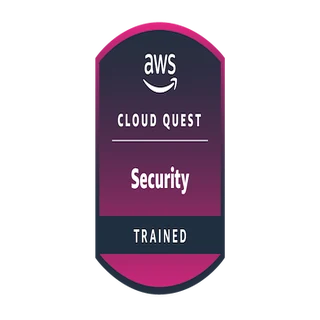
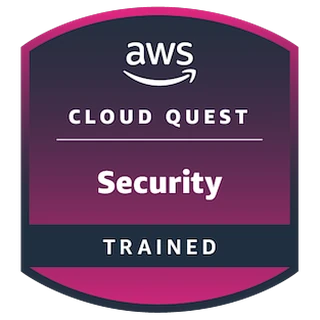
Second polish pass: badges, research, achievements, skills, dates
- AWS Cloud Quest badge cropped to its artwork so it fills the ring
  like the other badges
- Research: Copy BibTeX button on each published paper
- Achievements: gold accent on first-place entries, silver on second
- Skills sphere trimmed from 48 to 37 tags so words overlap less
- Certificates: completion month and year on every card that prints one
- Projects: single-item Web and Tools filters folded into the main
  categories
- Contact form: note that the button opens the visitor's mail app
- Scripts load with defer and the portrait is preloaded, so the page
  paints sooner; 404 page restyled to match the site

diff --git a/js/app.js b/js/app.js
@@ -251,20 +251,17 @@ if(aboutCard){
   const skills = [
     {name:'Kali Linux',type:'security'},{name:'Burp Suite',type:'security'},{name:'Metasploit',type:'security'},
     {name:'Wireshark',type:'security'},{name:'Nmap',type:'security'},{name:'SIEM / Log Analysis',type:'security'},
-    {name:'Pen Testing',type:'security'},{name:'OWASP Top 10',type:'security'},{name:'OWASP LLM Top 10',type:'security'},
-    {name:'MITRE ATT&CK',type:'security'},{name:'Detection Engineering',type:'security'},{name:'Incident Response',type:'security'},
-    {name:'Threat Hunting',type:'security'},{name:'Entra ID / OAuth',type:'security'},{name:'Digital Forensics',type:'security'},
-    {name:'Adversarial ML',type:'security'},{name:'CTF / Exploitation',type:'security'},{name:'DNS / SPF / DKIM',type:'security'},
+    {name:'Pen Testing',type:'security'},{name:'OWASP Top 10',type:'security'},{name:'MITRE ATT&CK',type:'security'},
+    {name:'Detection Engineering',type:'security'},{name:'Incident Response',type:'security'},{name:'Threat Hunting',type:'security'},
+    {name:'Entra ID / OAuth',type:'security'},{name:'Digital Forensics',type:'security'},{name:'Adversarial ML',type:'security'},
     {name:'Python',type:'programming'},{name:'Rust',type:'programming'},{name:'C / C++',type:'programming'},
-    {name:'Java',type:'programming'},{name:'TypeScript',type:'programming'},{name:'JavaScript',type:'programming'},
-    {name:'PowerShell / KQL',type:'programming'},{name:'SQL',type:'programming'},{name:'Bash',type:'programming'},
-    {name:'PyTorch',type:'programming'},{name:'XGBoost',type:'programming'},{name:'Scikit-learn',type:'programming'},
-    {name:'SHAP / LIME',type:'programming'},{name:'ONNX Runtime',type:'programming'},{name:'YOLOv8',type:'programming'},
-    {name:'FastAPI',type:'programming'},{name:'React',type:'programming'},{name:'Docker',type:'programming'},
-    {name:'GitHub Actions',type:'programming'},{name:'AWS',type:'programming'},{name:'Alibaba Cloud',type:'programming'},
-    {name:'Linux',type:'programming'},{name:'Git',type:'programming'},{name:'Playwright',type:'programming'},
+    {name:'Java',type:'programming'},{name:'TypeScript',type:'programming'},{name:'PowerShell / KQL',type:'programming'},
+    {name:'SQL',type:'programming'},{name:'Bash',type:'programming'},{name:'PyTorch',type:'programming'},
+    {name:'XGBoost',type:'programming'},{name:'SHAP / LIME',type:'programming'},{name:'ONNX Runtime',type:'programming'},
+    {name:'YOLOv8',type:'programming'},{name:'FastAPI',type:'programming'},{name:'React',type:'programming'},
+    {name:'Docker',type:'programming'},{name:'GitHub Actions',type:'programming'},{name:'AWS',type:'programming'},
     {name:'Research Writing',type:'soft'},{name:'Problem-Solving',type:'soft'},{name:'Team Work',type:'soft'},
-    {name:'Communication',type:'soft'},{name:'Adaptability',type:'soft'},{name:'Project Management',type:'soft'},
+    {name:'Communication',type:'soft'},
   ];
 
   const N = skills.length;
@@ -397,7 +394,7 @@ const PROJECTS = [
     code:'https://github.com/MohammadThabetHassan/TokenAbuse-Azure', codeLabel:'Write-up'
   },
   {
-    title:'Facts Only', cats:['AI/ML','Web'], lang:'JavaScript', year:'2026',
+    title:'Facts Only', cats:['AI/ML','Security'], lang:'JavaScript', year:'2026',
     image:'img/projects/facts-only.webp', alt:'Facts Only report flagging one source in an AI answer as likely planted',
     desc:'Browser extension and web app that flags paid or planted sources in AI chatbot answers. Shows evidence, never a true-or-false verdict. English and Arabic, zero dependencies, 174 offline checks.',
     facts:['0 false positives / 209 publishers','English + Arabic (RTL)','Zero dependencies'],
@@ -413,7 +410,7 @@ const PROJECTS = [
     code:'https://github.com/MohammadThabetHassan/bcs407-campus-safety', demo:'https://campussafety.eu.cc'
   },
   {
-    title:'Odoo AI Helpdesk Triage', cats:['AI/ML','Tools'], lang:'Python', year:'2026',
+    title:'Odoo AI Helpdesk Triage', cats:['AI/ML'], lang:'Python', year:'2026',
     image:'img/projects/odoo-helpdesk.webp', alt:'GitHub Actions history for the Odoo AI helpdesk triage add-on, every run passing',
     desc:'Odoo 19 add-on that turns Claude into a guarded first-line helpdesk agent: triage, routing and tool-use resolution behind cost caps, rate limits, circuit breakers and a human final say. Per-tool audit trail, safety gates and 74 tests.',
     facts:['Cost caps + circuit breakers','Per-tool audit trail','74 tests'],
@@ -588,6 +585,60 @@ if(!prefersReducedMotion && typeof gsap!=='undefined'){
       scrollTrigger:{ trigger:el, start:'top 88%' }
     });
   });
+}
+
+/* ── Copy BibTeX ── */
+const BIBTEX = {
+  1: `@inproceedings{thabet2025smartinject,
+  author    = {Thabet, M. and Satrya, G. B. and Kermani, A.},
+  title     = {SmartInject: Automated SQL Injection Testing Using Deep Q-Learning and LSTM-Based Payload Generation},
+  booktitle = {Proc. 2025 2nd Int. Conf. on Artificial Intelligence, Metaverse, and Cybersecurity (ICAMAC)},
+  address   = {Dubai, UAE},
+  year      = {2025},
+  month     = oct,
+  pages     = {1--6},
+  doi       = {10.1109/ICAMAC67779.2025.11398683}
+}`,
+  2: `@inproceedings{thabethassan2026lightweight,
+  author    = {Thabet Hassan, M. and Sadek, F. and Sami, A. and Kermani Kolankeh, A.},
+  title     = {Lightweight Voice Deepfake Detection for Smart Mobility Using Multi-Feature Ensemble Learning},
+  booktitle = {Proc. 2026 IEEE Int. Conf. on Smart Mobility (SM)},
+  address   = {Al Alamein, Egypt},
+  year      = {2026},
+  month     = may,
+  pages     = {1--2},
+  doi       = {10.1109/SM69703.2026.11614145}
+}`,
+  3: `@inproceedings{thabethassan2026ota,
+  author    = {Thabet Hassan, M. and Alraas, O. and AbuSerrieh, L. A.},
+  title     = {OTA Update-Channel Compromise Risk in Smart Mobility: A Testbed Comparing Governance and Cryptographic Controls},
+  booktitle = {Proc. 2026 IEEE Int. Conf. on Smart Mobility (SM)},
+  address   = {Al Alamein, Egypt},
+  year      = {2026},
+  month     = may,
+  pages     = {1--2},
+  doi       = {10.1109/SM69703.2026.11614128}
+}`
+};
+document.querySelectorAll('.pub-copy').forEach(btn=>{
+  const original = btn.textContent;
+  btn.addEventListener('click',()=>{
+    const text = BIBTEX[btn.dataset.bib];
+    if(!text) return;
+    const done = ()=>{
+      btn.textContent = 'Copied ✓'; btn.classList.add('is-done');
+      setTimeout(()=>{ btn.textContent = original; btn.classList.remove('is-done'); }, 1800);
+    };
+    if(navigator.clipboard && navigator.clipboard.writeText){
+      navigator.clipboard.writeText(text).then(done, ()=>fallbackCopy(text, done));
+    } else { fallbackCopy(text, done); }
+  });
+});
+function fallbackCopy(text, done){
+  const ta=document.createElement('textarea'); ta.value=text; ta.setAttribute('readonly','');
+  ta.style.position='fixed'; ta.style.opacity='0'; document.body.appendChild(ta); ta.select();
+  try{ document.execCommand('copy'); done(); }catch(err){ /* leave the text selectable */ }
+  document.body.removeChild(ta);
 }
 
 /* ── Contact Form ── */

diff --git a/index.html b/index.html
@@ -58,9 +58,10 @@
 <link rel="preconnect" href="https://fonts.gstatic.com" crossorigin>
 <link href="https://fonts.googleapis.com/css2?family=JetBrains+Mono:wght@400;500;700&family=Space+Grotesk:wght@300;400;500;600;700&display=swap" rel="stylesheet">
 
-<script src="https://cdnjs.cloudflare.com/ajax/libs/three.js/r128/three.min.js"></script>
-<script src="https://cdnjs.cloudflare.com/ajax/libs/gsap/3.12.2/gsap.min.js"></script>
-<script src="https://cdnjs.cloudflare.com/ajax/libs/gsap/3.12.2/ScrollTrigger.min.js"></script>
+<link rel="preload" as="image" href="img/portrait.webp" type="image/webp">
+<script defer src="https://cdnjs.cloudflare.com/ajax/libs/three.js/r128/three.min.js"></script>
+<script defer src="https://cdnjs.cloudflare.com/ajax/libs/gsap/3.12.2/gsap.min.js"></script>
+<script defer src="https://cdnjs.cloudflare.com/ajax/libs/gsap/3.12.2/ScrollTrigger.min.js"></script>
 
 <link rel="stylesheet" href="css/style.css">
 </head>
@@ -276,7 +277,7 @@
         <div class="pub-authors"><b>M. Thabet</b>, G. B. Satrya, A. Kermani</div>
         <div class="pub-venue">Proc. 2025 2nd Int. Conf. on Artificial Intelligence, Metaverse, and Cybersecurity (ICAMAC), Dubai, Oct. 2025, pp. 1–6 · IEEE Xplore</div>
         <p class="pub-result">A hybrid DQN + LSTM agent, trained in an OpenAI Gym environment over DVWA, reached an 80% vulnerability-discovery rate at DVWA "High", where static fuzzing and a DQN-only baseline found nothing.</p>
-        <div class="pub-links"><a href="https://doi.org/10.1109/ICAMAC67779.2025.11398683" target="_blank" rel="noopener">DOI 10.1109/ICAMAC67779.2025.11398683 ↗</a></div>
+        <div class="pub-links"><a href="https://doi.org/10.1109/ICAMAC67779.2025.11398683" target="_blank" rel="noopener">DOI 10.1109/ICAMAC67779.2025.11398683 ↗</a><button type="button" class="pub-copy" data-bib="1">Copy BibTeX</button></div>
       </div>
     </article>
     <article class="pub-card reveal">
@@ -286,7 +287,7 @@
         <div class="pub-authors"><b>M. Thabet Hassan</b>, F. Sadek, A. Sami, A. Kermani Kolankeh</div>
         <div class="pub-venue">Proc. 2026 IEEE Int. Conf. on Smart Mobility (SM), Al Alamein, Egypt, May 2026, pp. 1–2 · IEEE Xplore</div>
         <p class="pub-result">An edge-deployable XGBoost ensemble: F1 0.95, 95.17% accuracy, under 2 MB, 36.8 ms feature extraction, with no GPU or cloud dependency. Extended into the VoiceGuard platform.</p>
-        <div class="pub-links"><a href="https://doi.org/10.1109/SM69703.2026.11614145" target="_blank" rel="noopener">DOI 10.1109/SM69703.2026.11614145 ↗</a><a href="https://github.com/MohammadThabetHassan/VoiceGuard" target="_blank" rel="noopener">Code ↗</a></div>
+        <div class="pub-links"><a href="https://doi.org/10.1109/SM69703.2026.11614145" target="_blank" rel="noopener">DOI 10.1109/SM69703.2026.11614145 ↗</a><a href="https://github.com/MohammadThabetHassan/VoiceGuard" target="_blank" rel="noopener">Code ↗</a><button type="button" class="pub-copy" data-bib="2">Copy BibTeX</button></div>
       </div>
     </article>
     <article class="pub-card reveal">
@@ -296,7 +297,7 @@
         <div class="pub-authors"><b>M. Thabet Hassan</b>, O. Alraas, L. A. AbuSerrieh</div>
         <div class="pub-venue">Proc. 2026 IEEE Int. Conf. on Smart Mobility (SM), Al Alamein, Egypt, May 2026, pp. 1–2 · IEEE Xplore</div>
         <p class="pub-result">A Monte-Carlo fleet testbed (500 runs, 50,000 ECUs). Layered governance cut the median attack blast radius from 27,784 to 46 ECUs and modelled cost from $28.7M to $55K, relative to cryptographic controls alone.</p>
-        <div class="pub-links"><a href="https://doi.org/10.1109/SM69703.2026.11614128" target="_blank" rel="noopener">DOI 10.1109/SM69703.2026.11614128 ↗</a></div>
+        <div class="pub-links"><a href="https://doi.org/10.1109/SM69703.2026.11614128" target="_blank" rel="noopener">DOI 10.1109/SM69703.2026.11614128 ↗</a><button type="button" class="pub-copy" data-bib="3">Copy BibTeX</button></div>
       </div>
     </article>
     <article class="pub-card reveal">
@@ -322,7 +323,7 @@
     <div class="section-line"></div>
   </div>
   <div class="timeline">
-    <div class="t-item reveal">
+    <div class="t-item reveal gold">
       <div class="t-dot"></div>
       <div class="t-card">
         <div class="t-icon">🏆</div>
@@ -331,7 +332,7 @@
         <span class="t-year">2025</span>
       </div>
     </div>
-    <div class="t-item reveal">
+    <div class="t-item reveal gold">
       <div class="t-dot"></div>
       <div class="t-card">
         <div class="t-icon">🥇</div>
@@ -340,7 +341,7 @@
         <span class="t-year">2024</span>
       </div>
     </div>
-    <div class="t-item reveal">
+    <div class="t-item reveal gold">
       <div class="t-dot"></div>
       <div class="t-card">
         <div class="t-icon">🏅</div>
@@ -358,7 +359,7 @@
         <span class="t-year">2025</span>
       </div>
     </div>
-    <div class="t-item reveal">
+    <div class="t-item reveal silver">
       <div class="t-dot"></div>
       <div class="t-card">
         <div class="t-icon">🥈</div>
@@ -457,6 +458,7 @@
             <label for="fmsg">Your Message</label>
           </div>
           <button type="submit" class="btn-send">SEND MESSAGE →</button>
+          <p class="form-hint">Opens your email app with the message filled in.</p>
         </form>
       </div>
     </div>
@@ -481,6 +483,6 @@
 
 </div><!-- /page-wrapper -->
 
-<script src="js/app.js"></script>
+<script defer src="js/app.js"></script>
 </body>
 </html>

diff --git a/404.html b/404.html
@@ -1,30 +1,39 @@
 <!DOCTYPE html>
 <html lang="en">
 <head>
-<meta charset="utf-8">
-<meta name="viewport" content="width=device-width, initial-scale=1">
-<title>Page not found</title>
+<meta charset="UTF-8">
+<meta name="viewport" content="width=device-width, initial-scale=1.0">
+<title>Page not found | Mohammad Thabet Hassan</title>
 <meta name="robots" content="noindex">
+<meta name="theme-color" content="#00d4ff">
 <link rel="icon" href="/favicon.ico" sizes="any">
 <link rel="icon" href="/icon.svg" type="image/svg+xml">
 <link rel="preconnect" href="https://fonts.googleapis.com">
 <link rel="preconnect" href="https://fonts.gstatic.com" crossorigin>
-<link href="https://fonts.googleapis.com/css2?family=IBM+Plex+Mono:wght@400&family=IBM+Plex+Sans:wght@400;500&family=Instrument+Serif&display=swap" rel="stylesheet">
+<link href="https://fonts.googleapis.com/css2?family=JetBrains+Mono:wght@400;700&family=Space+Grotesk:wght@400;500;700&display=swap" rel="stylesheet">
 <link rel="stylesheet" href="/css/style.css">
 <style>
-  .nf { min-height: 70vh; display: grid; place-items: center; text-align: center; padding-block: 64px; }
-  .nf h1 { font-family: var(--font-display); font-weight: 400; font-size: clamp(2.5rem, 6vw, 4rem); margin: 12px 0 16px; }
-  .nf p { color: var(--text-2); max-width: 44ch; margin-inline: auto; }
-  .nf .back { margin-top: 24px; }
+  .nf { min-height: 100vh; display: flex; align-items: center; justify-content: center; text-align: center; padding: 0 8%; }
+  .nf-code {
+    font-family: var(--font-mono);
+    font-size: clamp(4rem, 12vw, 7rem);
+    font-weight: 700;
+    color: var(--cyan);
+    line-height: 1;
+    text-shadow: 0 0 30px rgba(0,212,255,0.4);
+    margin-bottom: 1rem;
+  }
+  .nf h1 { font-family: var(--font-mono); font-size: clamp(1.4rem, 3vw, 2rem); color: var(--text); margin-bottom: 1rem; }
+  .nf p { color: var(--muted); max-width: 44ch; margin: 0 auto 2rem; line-height: 1.7; }
 </style>
 </head>
 <body>
-<main class="nf wrap">
+<main class="nf">
   <div>
-    <p class="eyebrow">404</p>
+    <div class="nf-code">404</div>
     <h1>That page does not exist.</h1>
     <p>The address may have changed. Everything on this site lives on one page, so the home page is the best place to start.</p>
-    <p class="back"><a class="btn btn-primary" href="/">Go to the home page</a></p>
+    <a class="btn btn-primary" href="/">Back to the portfolio</a>
   </div>
 </main>
 </body>

diff --git a/css/style.css b/css/style.css
@@ -743,6 +743,18 @@ body.cursor-hover #cursor-ring { width:42px; height:42px; border-color:rgba(0,21
   transition: gap 0.2s;
 }
 .pub-links a:hover { gap: 8px; }
+.pub-copy {
+  font-family: var(--font-mono);
+  font-size: 12px;
+  font-weight: 700;
+  color: var(--muted);
+  border: 1px solid var(--border);
+  border-radius: 6px;
+  padding: 3px 10px;
+  transition: all 0.2s;
+}
+.pub-copy:hover { color: var(--cyan); border-color: var(--cyan); }
+.pub-copy.is-done { color: var(--green); border-color: rgba(0,255,136,0.5); }
 .pub-links a, .pub-venue { overflow-wrap: anywhere; }
 .pub-note { text-align: center; font-family: var(--font-mono); font-size: 12px; color: var(--muted); margin-top: 2rem; }
 
@@ -1134,6 +1146,10 @@ body.cursor-hover #cursor-ring { width:42px; height:42px; border-color:rgba(0,21
   line-height: 1.65;
   margin-bottom: 0.75rem;
 }
+.t-item.gold .t-dot { background: var(--amber); box-shadow: 0 0 0 4px rgba(245,158,11,0.2), 0 0 14px var(--amber); }
+.t-item.gold .t-year { background: rgba(245,158,11,0.15); color: var(--amber); }
+.t-item.silver .t-dot { background: #cbd5e1; box-shadow: 0 0 0 4px rgba(203,213,225,0.2), 0 0 14px #cbd5e1; }
+.t-item.silver .t-year { background: rgba(203,213,225,0.12); color: #cbd5e1; }
 .t-year {
   display: inline-block;
   padding: 2px 10px;
@@ -1427,6 +1443,7 @@ body.cursor-hover #cursor-ring { width:42px; height:42px; border-color:rgba(0,21
   box-shadow: 0 12px 40px rgba(0,212,255,0.4);
 }
 .btn-send:hover::after { opacity:1; }
+.form-hint { font-family: var(--font-mono); font-size: 11px; color: var(--muted); text-align: center; margin-top: -0.4rem; }
 
 /* ============================================
    FOOTER
